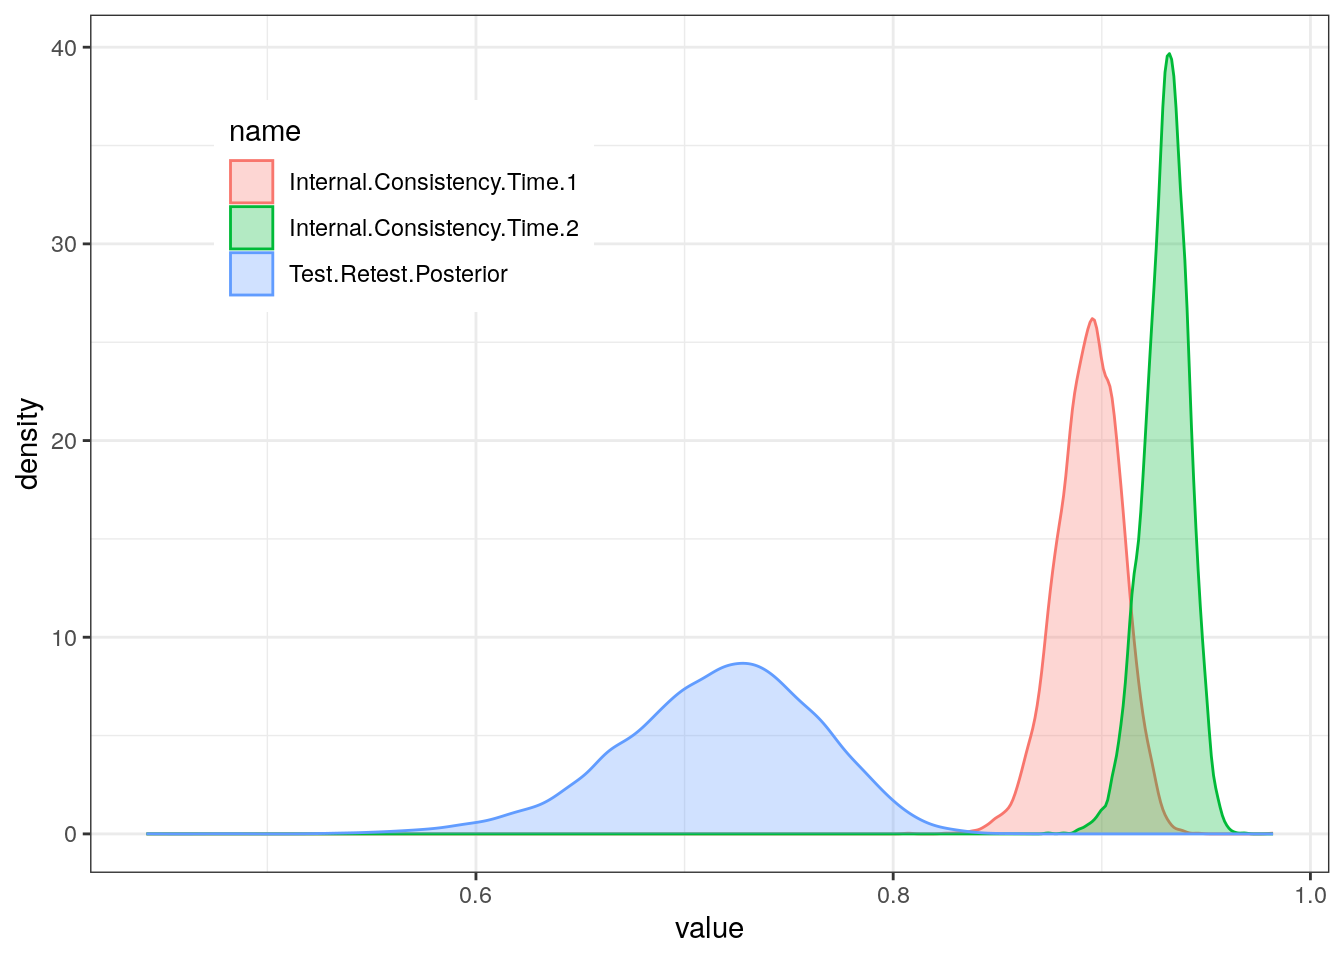
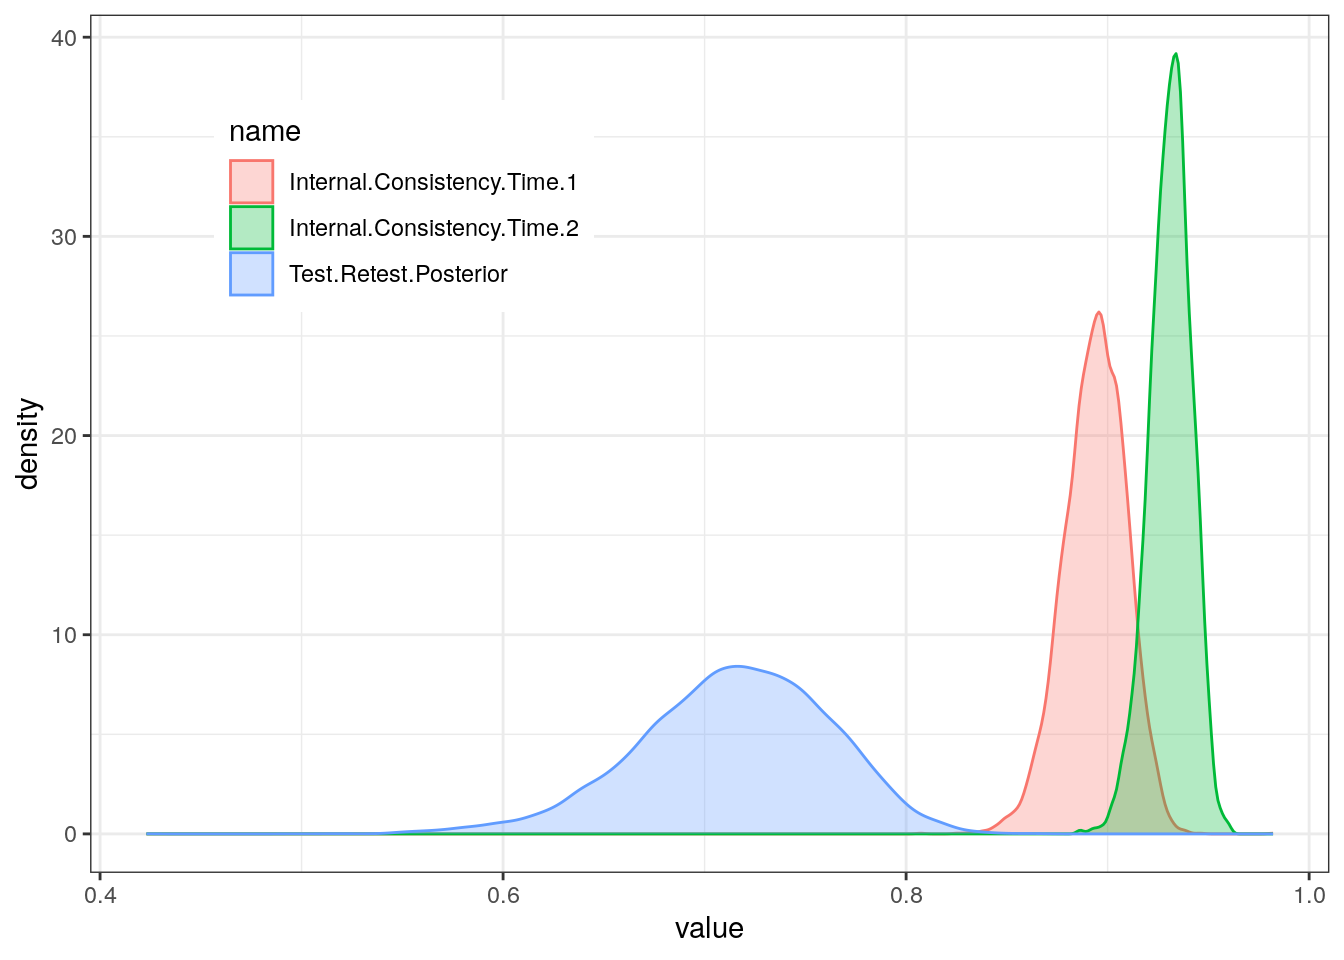
Built site for gh-pages

diff --git a/posts/2024-07-01-tutorial_rmp_gonogo/index.html b/posts/2024-07-01-tutorial_rmp_gonogo/index.html
@@ -9,7 +9,7 @@
 <meta name="author" content="Giacomo Bignardi">
 <meta name="dcterms.date" content="2099-06-16">
 
-<title>Giacomo Bignardi, PhD - Tutorial: Calculating relative measurement precision (RMP) for a go/no-go task</title>
+<title>Giacomo Bignardi, PhD - Tutorial: Calculating internal consistency reliability for a go/no-go task</title>
 <style>
 code{white-space: pre-wrap;}
 span.smallcaps{font-variant: small-caps;}
@@ -176,7 +176,7 @@ window.Quarto = {
 <header id="title-block-header" class="quarto-title-block default page-columns page-full">
   <div class="quarto-title-banner page-columns page-full">
     <div class="quarto-title column-body">
-      <h1 class="title">Tutorial: Calculating relative measurement precision (RMP) for a go/no-go task</h1>
+      <h1 class="title">Tutorial: Calculating internal consistency reliability for a go/no-go task</h1>
                                 <div class="quarto-categories">
                 <div class="quarto-category">reliability</div>
                 <div class="quarto-category">cognition</div>
@@ -966,17 +966,17 @@ Multilevel Hyperparameters:
 ~pps (Number of levels: 107) 
                                   Estimate Est.Error l-95% CI u-95% CI Rhat
 sd(Intercept)                         0.26      0.02     0.22     0.31 1.00
-sd(condition_contrast)                1.00      0.07     0.87     1.16 1.00
-cor(Intercept,condition_contrast)     0.33      0.10     0.13     0.51 1.00
+sd(condition_contrast)                1.00      0.07     0.87     1.15 1.00
+cor(Intercept,condition_contrast)     0.33      0.10     0.13     0.52 1.00
                                   Bulk_ESS Tail_ESS
-sd(Intercept)                         2993     3860
-sd(condition_contrast)                1890     3720
-cor(Intercept,condition_contrast)     1067     2087
+sd(Intercept)                         3260     4901
+sd(condition_contrast)                1881     3548
+cor(Intercept,condition_contrast)      978     1710
 
 Regression Coefficients:
                    Estimate Est.Error l-95% CI u-95% CI Rhat Bulk_ESS Tail_ESS
-Intercept              0.78      0.03     0.73     0.84 1.00     2488     3883
-condition_contrast     3.13      0.10     2.94     3.33 1.00     1297     2460
+Intercept              0.78      0.03     0.73     0.84 1.00     2535     4301
+condition_contrast     3.13      0.10     2.95     3.33 1.00     1459     2792
 
 Draws were sampled using sample(hmc). For each parameter, Bulk_ESS
 and Tail_ESS are effective sample size measures, and Rhat is the potential
@@ -1058,53 +1058,34 @@ r_pps[11,condition_contrast] 4.789330 4.277429 4.404580 4.513110</code></pre>
 </section>
 <section id="calculate-reliability" class="level1">
 <h1>Calculate Reliability</h1>
-<p>Our reliability algorithm:</p>
+<p>The code to calculate reliability using the posterior draw matrix is relatively simple. You can either <a href="https://github.com/giac01/gbtoolbox/blob/main/R/reliability.R">copy and paste the code directly from the github page</a> or download my R package of miscellaneous R functions <code>gbtoolbox</code> available on github.</p>
+<p>Install R package from github:</p>
 <div class="cell">
-<div class="sourceCode cell-code" id="cb20"><pre class="sourceCode r code-with-copy"><code class="sourceCode r"><span id="cb20-1"><a href="#cb20-1" aria-hidden="true" tabindex="-1"></a>relative_measurement_precision <span class="ot">=</span> <span class="cf">function</span>(</span>
-<span id="cb20-2"><a href="#cb20-2" aria-hidden="true" tabindex="-1"></a>    input_draws,</span>
-<span id="cb20-3"><a href="#cb20-3" aria-hidden="true" tabindex="-1"></a>    <span class="at">verbose =</span> <span class="cn">TRUE</span></span>
-<span id="cb20-4"><a href="#cb20-4" aria-hidden="true" tabindex="-1"></a>){</span>
-<span id="cb20-5"><a href="#cb20-5" aria-hidden="true" tabindex="-1"></a>  </span>
-<span id="cb20-6"><a href="#cb20-6" aria-hidden="true" tabindex="-1"></a>  input_draws <span class="ot">=</span> <span class="fu">as.matrix</span>(input_draws)</span>
-<span id="cb20-7"><a href="#cb20-7" aria-hidden="true" tabindex="-1"></a>  </span>
-<span id="cb20-8"><a href="#cb20-8" aria-hidden="true" tabindex="-1"></a>  <span class="cf">if</span> (verbose){</span>
-<span id="cb20-9"><a href="#cb20-9" aria-hidden="true" tabindex="-1"></a>    <span class="fu">print</span>(<span class="fu">paste0</span>(<span class="st">"Number of subjects: "</span>, <span class="fu">nrow</span>(input_draws)))</span>
-<span id="cb20-10"><a href="#cb20-10" aria-hidden="true" tabindex="-1"></a>    <span class="fu">print</span>(<span class="fu">paste0</span>(<span class="st">"Number of posterior draws: "</span>, <span class="fu">ncol</span>(input_draws)))</span>
-<span id="cb20-11"><a href="#cb20-11" aria-hidden="true" tabindex="-1"></a>  }</span>
-<span id="cb20-12"><a href="#cb20-12" aria-hidden="true" tabindex="-1"></a>  </span>
-<span id="cb20-13"><a href="#cb20-13" aria-hidden="true" tabindex="-1"></a>  col_select <span class="ot">=</span> <span class="fu">sample</span>(<span class="dv">1</span><span class="sc">:</span><span class="fu">ncol</span>(input_draws), <span class="at">replace =</span> F)</span>
-<span id="cb20-14"><a href="#cb20-14" aria-hidden="true" tabindex="-1"></a>  input_draws_1 <span class="ot">=</span> input_draws[,col_select[<span class="dv">1</span><span class="sc">:</span>(<span class="fu">length</span>(col_select)<span class="sc">/</span><span class="dv">2</span>)]]  </span>
-<span id="cb20-15"><a href="#cb20-15" aria-hidden="true" tabindex="-1"></a>  input_draws_2 <span class="ot">=</span> input_draws[,col_select[(<span class="fu">length</span>(col_select)<span class="sc">/</span><span class="dv">2</span><span class="sc">+</span><span class="dv">1</span>)<span class="sc">:</span><span class="fu">length</span>(col_select)]] </span>
-<span id="cb20-16"><a href="#cb20-16" aria-hidden="true" tabindex="-1"></a>  rmp_posterior <span class="ot">=</span> <span class="fu">sapply</span>(<span class="dv">1</span><span class="sc">:</span><span class="fu">ncol</span>(input_draws_1), <span class="cf">function</span>(i) <span class="fu">cor</span>(input_draws_1[,i],input_draws_2[,i], <span class="at">method =</span> <span class="st">"pearson"</span>))</span>
-<span id="cb20-17"><a href="#cb20-17" aria-hidden="true" tabindex="-1"></a>  hdci <span class="ot">=</span> ggdist<span class="sc">::</span><span class="fu">mean_hdci</span>(rmp_posterior, <span class="at">.width =</span> <span class="fl">0.95</span>)</span>
-<span id="cb20-18"><a href="#cb20-18" aria-hidden="true" tabindex="-1"></a>  pd <span class="ot">=</span> bayestestR<span class="sc">::</span><span class="fu">p_direction</span>(rmp_posterior)<span class="sc">$</span>pd</span>
-<span id="cb20-19"><a href="#cb20-19" aria-hidden="true" tabindex="-1"></a>  </span>
-<span id="cb20-20"><a href="#cb20-20" aria-hidden="true" tabindex="-1"></a>  <span class="fu">return</span>(<span class="fu">list</span>(<span class="at">hdci =</span> hdci, <span class="at">pd =</span> pd, <span class="at">rmp_posterior =</span> rmp_posterior,<span class="at">input_draws_1=</span>input_draws_1,<span class="at">input_draws_2=</span>input_draws_2))</span>
-<span id="cb20-21"><a href="#cb20-21" aria-hidden="true" tabindex="-1"></a>}</span></code><button title="Copy to Clipboard" class="code-copy-button"><i class="bi"></i></button></pre></div>
+<div class="sourceCode cell-code" id="cb20"><pre class="sourceCode r code-with-copy"><code class="sourceCode r"><span id="cb20-1"><a href="#cb20-1" aria-hidden="true" tabindex="-1"></a>devtools<span class="sc">::</span><span class="fu">install_github</span>(<span class="st">"giac01/gbtoolbox"</span>)</span></code><button title="Copy to Clipboard" class="code-copy-button"><i class="bi"></i></button></pre></div>
 </div>
 <p>Calculate relative measurement precision at each time point:</p>
 <div class="cell">
-<div class="sourceCode cell-code" id="cb21"><pre class="sourceCode r code-with-copy"><code class="sourceCode r"><span id="cb21-1"><a href="#cb21-1" aria-hidden="true" tabindex="-1"></a>rmp_time1 <span class="ot">=</span> <span class="fu">relative_measurement_precision</span>(subj_draws_time_1)</span></code><button title="Copy to Clipboard" class="code-copy-button"><i class="bi"></i></button></pre></div>
+<div class="sourceCode cell-code" id="cb21"><pre class="sourceCode r code-with-copy"><code class="sourceCode r"><span id="cb21-1"><a href="#cb21-1" aria-hidden="true" tabindex="-1"></a>internalconsistency_time1 <span class="ot">=</span> gbtoolbox<span class="sc">::</span><span class="fu">reliability</span>(subj_draws_time_1)</span></code><button title="Copy to Clipboard" class="code-copy-button"><i class="bi"></i></button></pre></div>
 <div class="cell-output cell-output-stdout">
 <pre><code>[1] "Number of subjects: 107"
 [1] "Number of posterior draws: 10000"</code></pre>
 </div>
-<div class="sourceCode cell-code" id="cb23"><pre class="sourceCode r code-with-copy"><code class="sourceCode r"><span id="cb23-1"><a href="#cb23-1" aria-hidden="true" tabindex="-1"></a>rmp_time2 <span class="ot">=</span> <span class="fu">relative_measurement_precision</span>(subj_draws_time_2)</span></code><button title="Copy to Clipboard" class="code-copy-button"><i class="bi"></i></button></pre></div>
+<div class="sourceCode cell-code" id="cb23"><pre class="sourceCode r code-with-copy"><code class="sourceCode r"><span id="cb23-1"><a href="#cb23-1" aria-hidden="true" tabindex="-1"></a>internalconsistency_time2 <span class="ot">=</span> gbtoolbox<span class="sc">::</span><span class="fu">reliability</span>(subj_draws_time_2)</span></code><button title="Copy to Clipboard" class="code-copy-button"><i class="bi"></i></button></pre></div>
 <div class="cell-output cell-output-stdout">
 <pre><code>[1] "Number of subjects: 107"
 [1] "Number of posterior draws: 10000"</code></pre>
 </div>
-<div class="sourceCode cell-code" id="cb25"><pre class="sourceCode r code-with-copy"><code class="sourceCode r"><span id="cb25-1"><a href="#cb25-1" aria-hidden="true" tabindex="-1"></a>rmp_time1<span class="sc">$</span>hdci</span></code><button title="Copy to Clipboard" class="code-copy-button"><i class="bi"></i></button></pre></div>
+<div class="sourceCode cell-code" id="cb25"><pre class="sourceCode r code-with-copy"><code class="sourceCode r"><span id="cb25-1"><a href="#cb25-1" aria-hidden="true" tabindex="-1"></a>internalconsistency_time1<span class="sc">$</span>hdci</span></code><button title="Copy to Clipboard" class="code-copy-button"><i class="bi"></i></button></pre></div>
 <div class="cell-output cell-output-stdout">
 <pre><code>          y     ymin      ymax .width .point .interval
 1 0.8937231 0.863525 0.9231702   0.95   mean      hdci</code></pre>
 </div>
-<div class="sourceCode cell-code" id="cb27"><pre class="sourceCode r code-with-copy"><code class="sourceCode r"><span id="cb27-1"><a href="#cb27-1" aria-hidden="true" tabindex="-1"></a>rmp_time2<span class="sc">$</span>hdci</span></code><button title="Copy to Clipboard" class="code-copy-button"><i class="bi"></i></button></pre></div>
+<div class="sourceCode cell-code" id="cb27"><pre class="sourceCode r code-with-copy"><code class="sourceCode r"><span id="cb27-1"><a href="#cb27-1" aria-hidden="true" tabindex="-1"></a>internalconsistency_time2<span class="sc">$</span>hdci</span></code><button title="Copy to Clipboard" class="code-copy-button"><i class="bi"></i></button></pre></div>
 <div class="cell-output cell-output-stdout">
 <pre><code>          y      ymin      ymax .width .point .interval
-1 0.9307084 0.9087029 0.9507524   0.95   mean      hdci</code></pre>
+1 0.9310258 0.9109792 0.9515158   0.95   mean      hdci</code></pre>
 </div>
-<div class="sourceCode cell-code" id="cb29"><pre class="sourceCode r code-with-copy"><code class="sourceCode r"><span id="cb29-1"><a href="#cb29-1" aria-hidden="true" tabindex="-1"></a>predicted_test_retest <span class="ot">=</span> <span class="fu">sqrt</span>(rmp_time1<span class="sc">$</span>rmp_posterior<span class="sc">*</span>rmp_time2<span class="sc">$</span>rmp_posterior)</span></code><button title="Copy to Clipboard" class="code-copy-button"><i class="bi"></i></button></pre></div>
+<div class="sourceCode cell-code" id="cb29"><pre class="sourceCode r code-with-copy"><code class="sourceCode r"><span id="cb29-1"><a href="#cb29-1" aria-hidden="true" tabindex="-1"></a>predicted_test_retest <span class="ot">=</span> <span class="fu">sqrt</span>(internalconsistency_time1<span class="sc">$</span>reliability_posterior<span class="sc">*</span>internalconsistency_time2<span class="sc">$</span>reliability_posterior)</span></code><button title="Copy to Clipboard" class="code-copy-button"><i class="bi"></i></button></pre></div>
 </div>
 <p>Relative measurement precision indicates that reliability at the first time point was 89% (95% Credible Interval = 86%-92%), and at the second time point reliability was 93% (95% CI[91%, 95%]).</p>
 <p>The test-retest reliability is a little lower than these estimates (r = 0.73), as we might expect:</p>
@@ -1115,13 +1096,13 @@ r_pps[11,condition_contrast] 4.789330 4.277429 4.404580 4.513110</code></pre>
     Pearson's product-moment correlation
 
 data:  subj_est_time_1 and subj_est_time_2
-t = 10.872, df = 105, p-value &lt; 2.2e-16
+t = 10.881, df = 105, p-value &lt; 2.2e-16
 alternative hypothesis: true correlation is not equal to 0
 95 percent confidence interval:
- 0.6240688 0.8061810
+ 0.6244561 0.8064030
 sample estimates:
       cor 
-0.7277053 </code></pre>
+0.7280037 </code></pre>
 </div>
 </div>
 <p>If there were no changes in individuals latent (true) <code>d'</code> values across the conditions, the population test-rest reliability and internal consistency should be identical. Because some change is inevitable, test-retest reliability will usually be a bit lower than internal consistency.</p>
@@ -1166,7 +1147,7 @@ sample estimates:
 <section id="plot-different-reliability-posterior-distributions" class="level1">
 <h1>Plot different reliability posterior distributions</h1>
 <div class="cell">
-<div class="sourceCode cell-code" id="cb33"><pre class="sourceCode r code-with-copy"><code class="sourceCode r"><span id="cb33-1"><a href="#cb33-1" aria-hidden="true" tabindex="-1"></a><span class="fu">data.frame</span>(<span class="st">`</span><span class="at">Test-Retest Posterior</span><span class="st">`</span> <span class="ot">=</span> test_retest_cor_posterior<span class="sc">$</span>rescor__subjesttime2__subjesttime1, <span class="st">`</span><span class="at">Internal Consistency Time 1</span><span class="st">`</span> <span class="ot">=</span> rmp_time1<span class="sc">$</span>rmp_posterior,  <span class="st">`</span><span class="at">Internal Consistency Time 2</span><span class="st">`</span> <span class="ot">=</span> rmp_time2<span class="sc">$</span>rmp_posterior) <span class="sc">%&gt;%</span> </span>
+<div class="sourceCode cell-code" id="cb33"><pre class="sourceCode r code-with-copy"><code class="sourceCode r"><span id="cb33-1"><a href="#cb33-1" aria-hidden="true" tabindex="-1"></a><span class="fu">data.frame</span>(<span class="st">`</span><span class="at">Test-Retest Posterior</span><span class="st">`</span> <span class="ot">=</span> test_retest_cor_posterior<span class="sc">$</span>rescor__subjesttime2__subjesttime1, <span class="st">`</span><span class="at">Internal Consistency Time 1</span><span class="st">`</span> <span class="ot">=</span> internalconsistency_time1<span class="sc">$</span>reliability_posterior,  <span class="st">`</span><span class="at">Internal Consistency Time 2</span><span class="st">`</span> <span class="ot">=</span> internalconsistency_time2<span class="sc">$</span>reliability_posterior) <span class="sc">%&gt;%</span> </span>
 <span id="cb33-2"><a href="#cb33-2" aria-hidden="true" tabindex="-1"></a>  <span class="fu">pivot_longer</span>(<span class="at">cols =</span> <span class="fu">everything</span>()) <span class="sc">%&gt;%</span></span>
 <span id="cb33-3"><a href="#cb33-3" aria-hidden="true" tabindex="-1"></a>  <span class="fu">ggplot</span>(<span class="fu">aes</span>(<span class="at">x =</span> value, <span class="at">group =</span> name, <span class="at">col =</span> name, <span class="at">fill =</span> name)) <span class="sc">+</span></span>
 <span id="cb33-4"><a href="#cb33-4" aria-hidden="true" tabindex="-1"></a>  <span class="fu">geom_density</span>(<span class="at">alpha =</span> .<span class="dv">3</span>) <span class="sc">+</span> </span>
